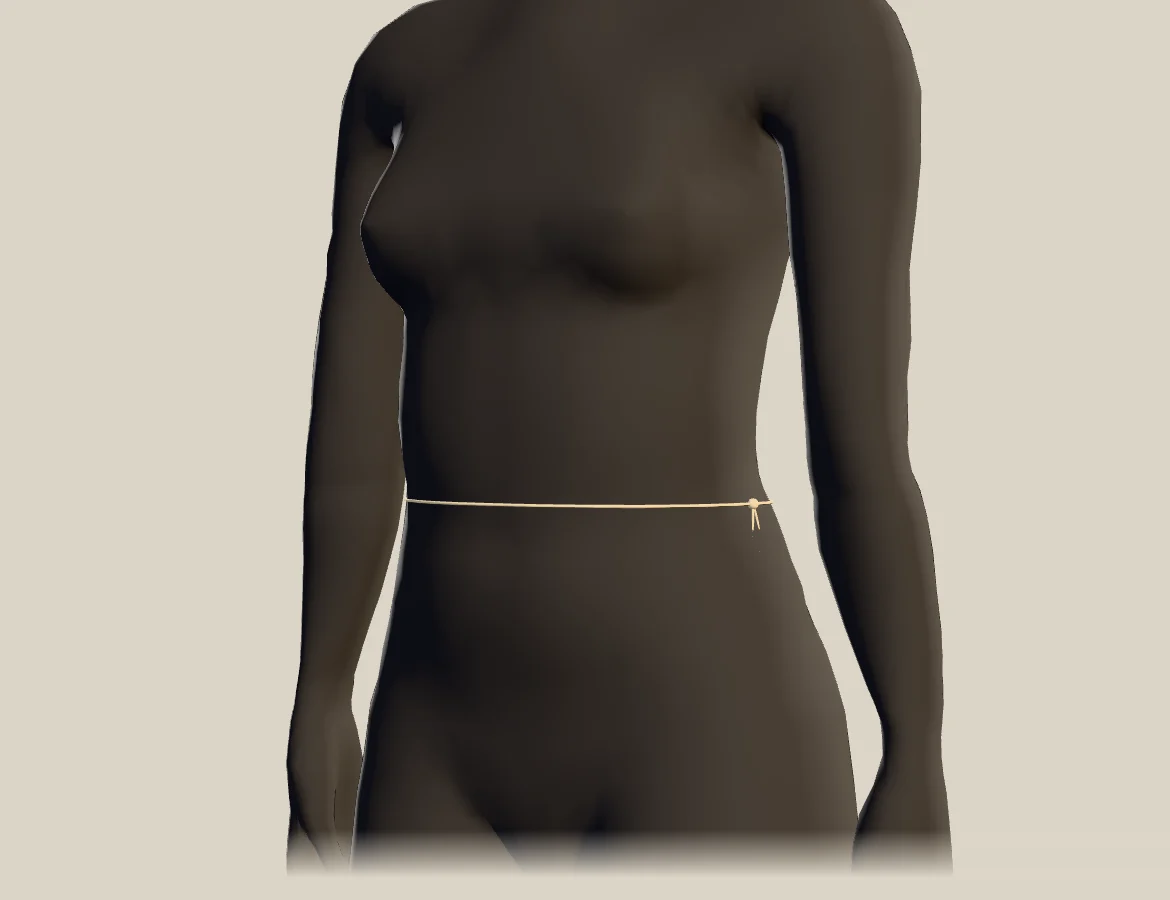
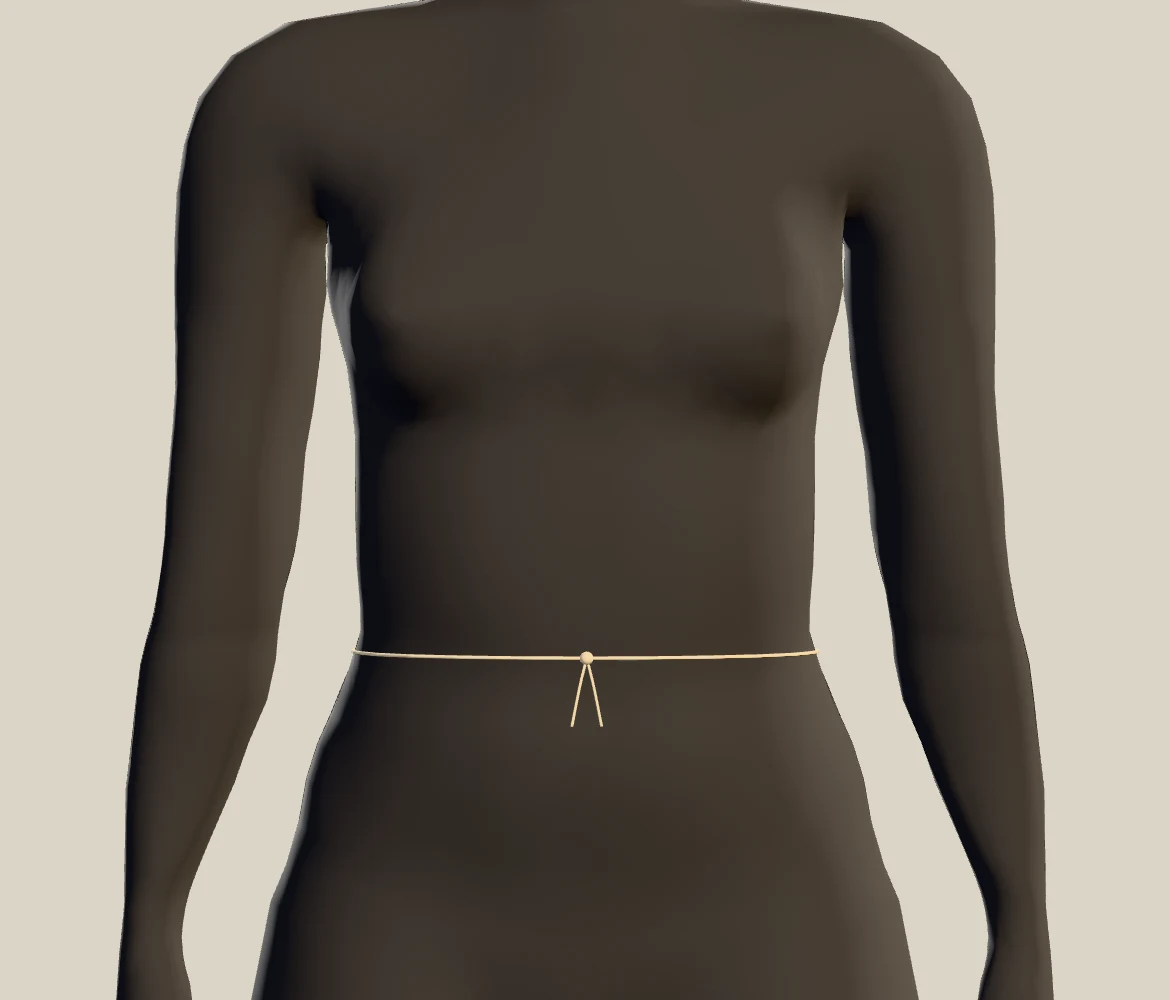
First page: straight-on 3D form, further out, knot tied at the centre front
Cat (Nov 14): the turned, closer crop was too much focus on the bust; she wanted the
mock-up's straight-on view with the tie visible. The string still can now tie its knot at
the centre front (measure3d knot=front), and the picture shows whole in the panel.

Claude-Session: https://claude.ai/code/session_013kcNWUtD4zwLszkgNfGkNC

diff --git a/src/ui/measure3d.ts b/src/ui/measure3d.ts
@@ -617,7 +617,7 @@ function fitBody(body: WholeBody) {
   return { pos: out, joints };
 }
 
-export function createMeasureScene(canvas: HTMLCanvasElement, shot: MeasureShot, lift: Lift = 'none', limbs = true, finish: Finish = 'satin', limbData: typeof LIMBS = LIMBS, darkTape = false, shade?: string, tapeColours?: { face: string; ink: string }, tapeShadow = false, whole?: WholeBody, tapeCm = 1.6, id?: string) {
+export function createMeasureScene(canvas: HTMLCanvasElement, shot: MeasureShot, lift: Lift = 'none', limbs = true, finish: Finish = 'satin', limbData: typeof LIMBS = LIMBS, darkTape = false, shade?: string, tapeColours?: { face: string; ink: string }, tapeShadow = false, whole?: WholeBody, tapeCm = 1.6, id?: string, knotFront = false) {
   const renderer = new THREE.WebGLRenderer({ canvas, antialias: true, alpha: false, preserveDrawingBuffer: true });
   renderer.outputColorSpace = THREE.SRGBColorSpace;
   renderer.toneMapping = THREE.NeutralToneMapping;
@@ -801,7 +801,8 @@ export function createMeasureScene(canvas: HTMLCanvasElement, shot: MeasureShot,
     const sp = shot.stringPath;
     // Started from its knot at the right side (away from the side the side lengths are read on), so it can be drawn
     // on going round, as a hand ties it.
-    const k = sp ? sp.reduce((bi, q, i) => (q.p[0] < sp[bi].p[0] ? i : bi), 0) : 0;
+    // Or at the centre front, where a straight-on still shows it (the first measuring page, Cat's F1, Nov 14).
+    const k = sp ? sp.reduce((bi, q, i) => (knotFront ? q.p[2] > sp[bi].p[2] : q.p[0] < sp[bi].p[0]) ? i : bi, 0) : 0;
     const from = sp ? [...sp.slice(k), ...sp.slice(0, k)] : undefined;
     const geo = from ? new THREE.TubeGeometry(new THREE.CatmullRomCurve3(from.map((q) => new THREE.Vector3(...q.p)), true), STRING_SEGS, 0.0045, 6, true) : waistString(bodyLandmarks().waist);
     stringMesh = new THREE.Mesh(geo, m);
@@ -812,7 +813,9 @@ export function createMeasureScene(canvas: HTMLCanvasElement, shot: MeasureShot,
       const out = norm(at.n);
       knot.add(new THREE.Mesh(new THREE.SphereGeometry(0.016, 12, 8), m));
       for (const s of [-1, 1]) {
-        const tail = new THREE.CatmullRomCurve3([new THREE.Vector3(0, 0, 0), new THREE.Vector3(...add(scale(out, 0.008), [0, 0.06, s * 0.015])), new THREE.Vector3(...add(scale(out, 0.006), [0, 0.16, s * 0.035]))]);
+        // The two ends part sideways across the body: front to back at the side, left and right at the front.
+        const apart = (d: number): V3 => (knotFront ? [s * d, 0, 0] : [0, 0, s * d]);
+        const tail = new THREE.CatmullRomCurve3([new THREE.Vector3(0, 0, 0), new THREE.Vector3(...add(add(scale(out, 0.008), [0, 0.06, 0]), apart(0.015))), new THREE.Vector3(...add(add(scale(out, 0.006), [0, 0.16, 0]), apart(0.035)))]);
         knot.add(new THREE.Mesh(new THREE.TubeGeometry(tail, 24, 0.004, 6, false), m));
       }
       knot.position.set(...add(at.p, scale(out, 0.004)));

diff --git a/src/ui/measure3dPage.ts b/src/ui/measure3dPage.ts
@@ -14,7 +14,7 @@ const pose = q.get('pose');
 const wholeName = q.get('whole');
 const whole = wholeName ? await (await fetch(`/measure-limbs/body-${wholeName}.json`)).json() : undefined;
 const limbs = pose ? await (await fetch(`/measure-limbs/limbs-${pose}.json`)).json() : undefined;
-const scene = createMeasureScene(canvas, shot, (q.get('look') ?? 'none') as Lift, q.get('limbs') !== '0', (q.get('finish') ?? 'satin') as Finish, limbs, q.get('tape') === 'dark', q.get('shade') ?? undefined, q.get('face') ? { face: q.get('face')!, ink: q.get('ink') ?? '#2b2418' } : undefined, q.get('shadow') === '1', whole, Number(q.get('tw') ?? 1.6), id);
+const scene = createMeasureScene(canvas, shot, (q.get('look') ?? 'none') as Lift, q.get('limbs') !== '0', (q.get('finish') ?? 'satin') as Finish, limbs, q.get('tape') === 'dark', q.get('shade') ?? undefined, q.get('face') ? { face: q.get('face')!, ink: q.get('ink') ?? '#2b2418' } : undefined, q.get('shadow') === '1', whole, Number(q.get('tw') ?? 1.6), id, q.get('knot') === 'front');
 // The clip's spoken-style directions, written over the foot of the frame (Cat, Nov 11: key directions in text).
 const caption = document.createElement('div');
 // On a band of the chalk itself, so the words never sit over the dark form; the band stays put, only the words fade.

diff --git a/src/ui/FirstForm.tsx b/src/ui/FirstForm.tsx
@@ -4,9 +4,9 @@ import { FormPicture } from './ContourForm';
 import { firstLightUp } from './lightsUp';
 
 /** The first measuring page's picture (Cat's F1 Sculpted Form, Nov 14): the 3D form from the How to do it clips,
- *  shoulders to hip with no neck, the string tied at its waist and the knot showing, on a chalk panel. It is the first
+ *  straight on from below the neck to the hip, the string tied at its waist with the knot at the centre front, on a chalk panel. It is the first
  *  chalk of a visit, so the panel lights up from black, as Style's window did before. Rendered once from
- *  measure3d.html (the string clip, turned 0.6, distance 7) to public/measure-first/womenswear.webp. Menswear has no 3D
+ *  measure3d.html (the string clip straight on, distance 12, knot=front so the knot sits at the centre front) to public/measure-first/womenswear.webp. Menswear has no 3D
  *  render yet, so it keeps its line form, drawn dark on the same chalk. */
 export function FirstForm({ kind }: { kind: FormKind }) {
   const ref = useRef<HTMLDivElement>(null);

diff --git a/src/styles/39-first-form.css b/src/styles/39-first-form.css
@@ -14,9 +14,10 @@
   display: block;
   width: 100%;
   height: 100%;
-  object-fit: cover;
-  /* Shoulders at the top whatever the panel's height; a short panel loses the hip first, never the string's knot. */
-  object-position: center 30%;
+  /* The whole picture, shoulders to hip, at whatever size the panel allows: its ground is the panel's chalk, so the
+     edges don't show, and the form stays further out than a close crop (Cat, Nov 14: "too much boob focus"). */
+  object-fit: contain;
+  object-position: center bottom;
 }
 /* Menswear's line form, its champagne lines turned to dark ink on the chalk (multiply keeps the chalk ground). */
 .first-form.menswear > .form-picture {
